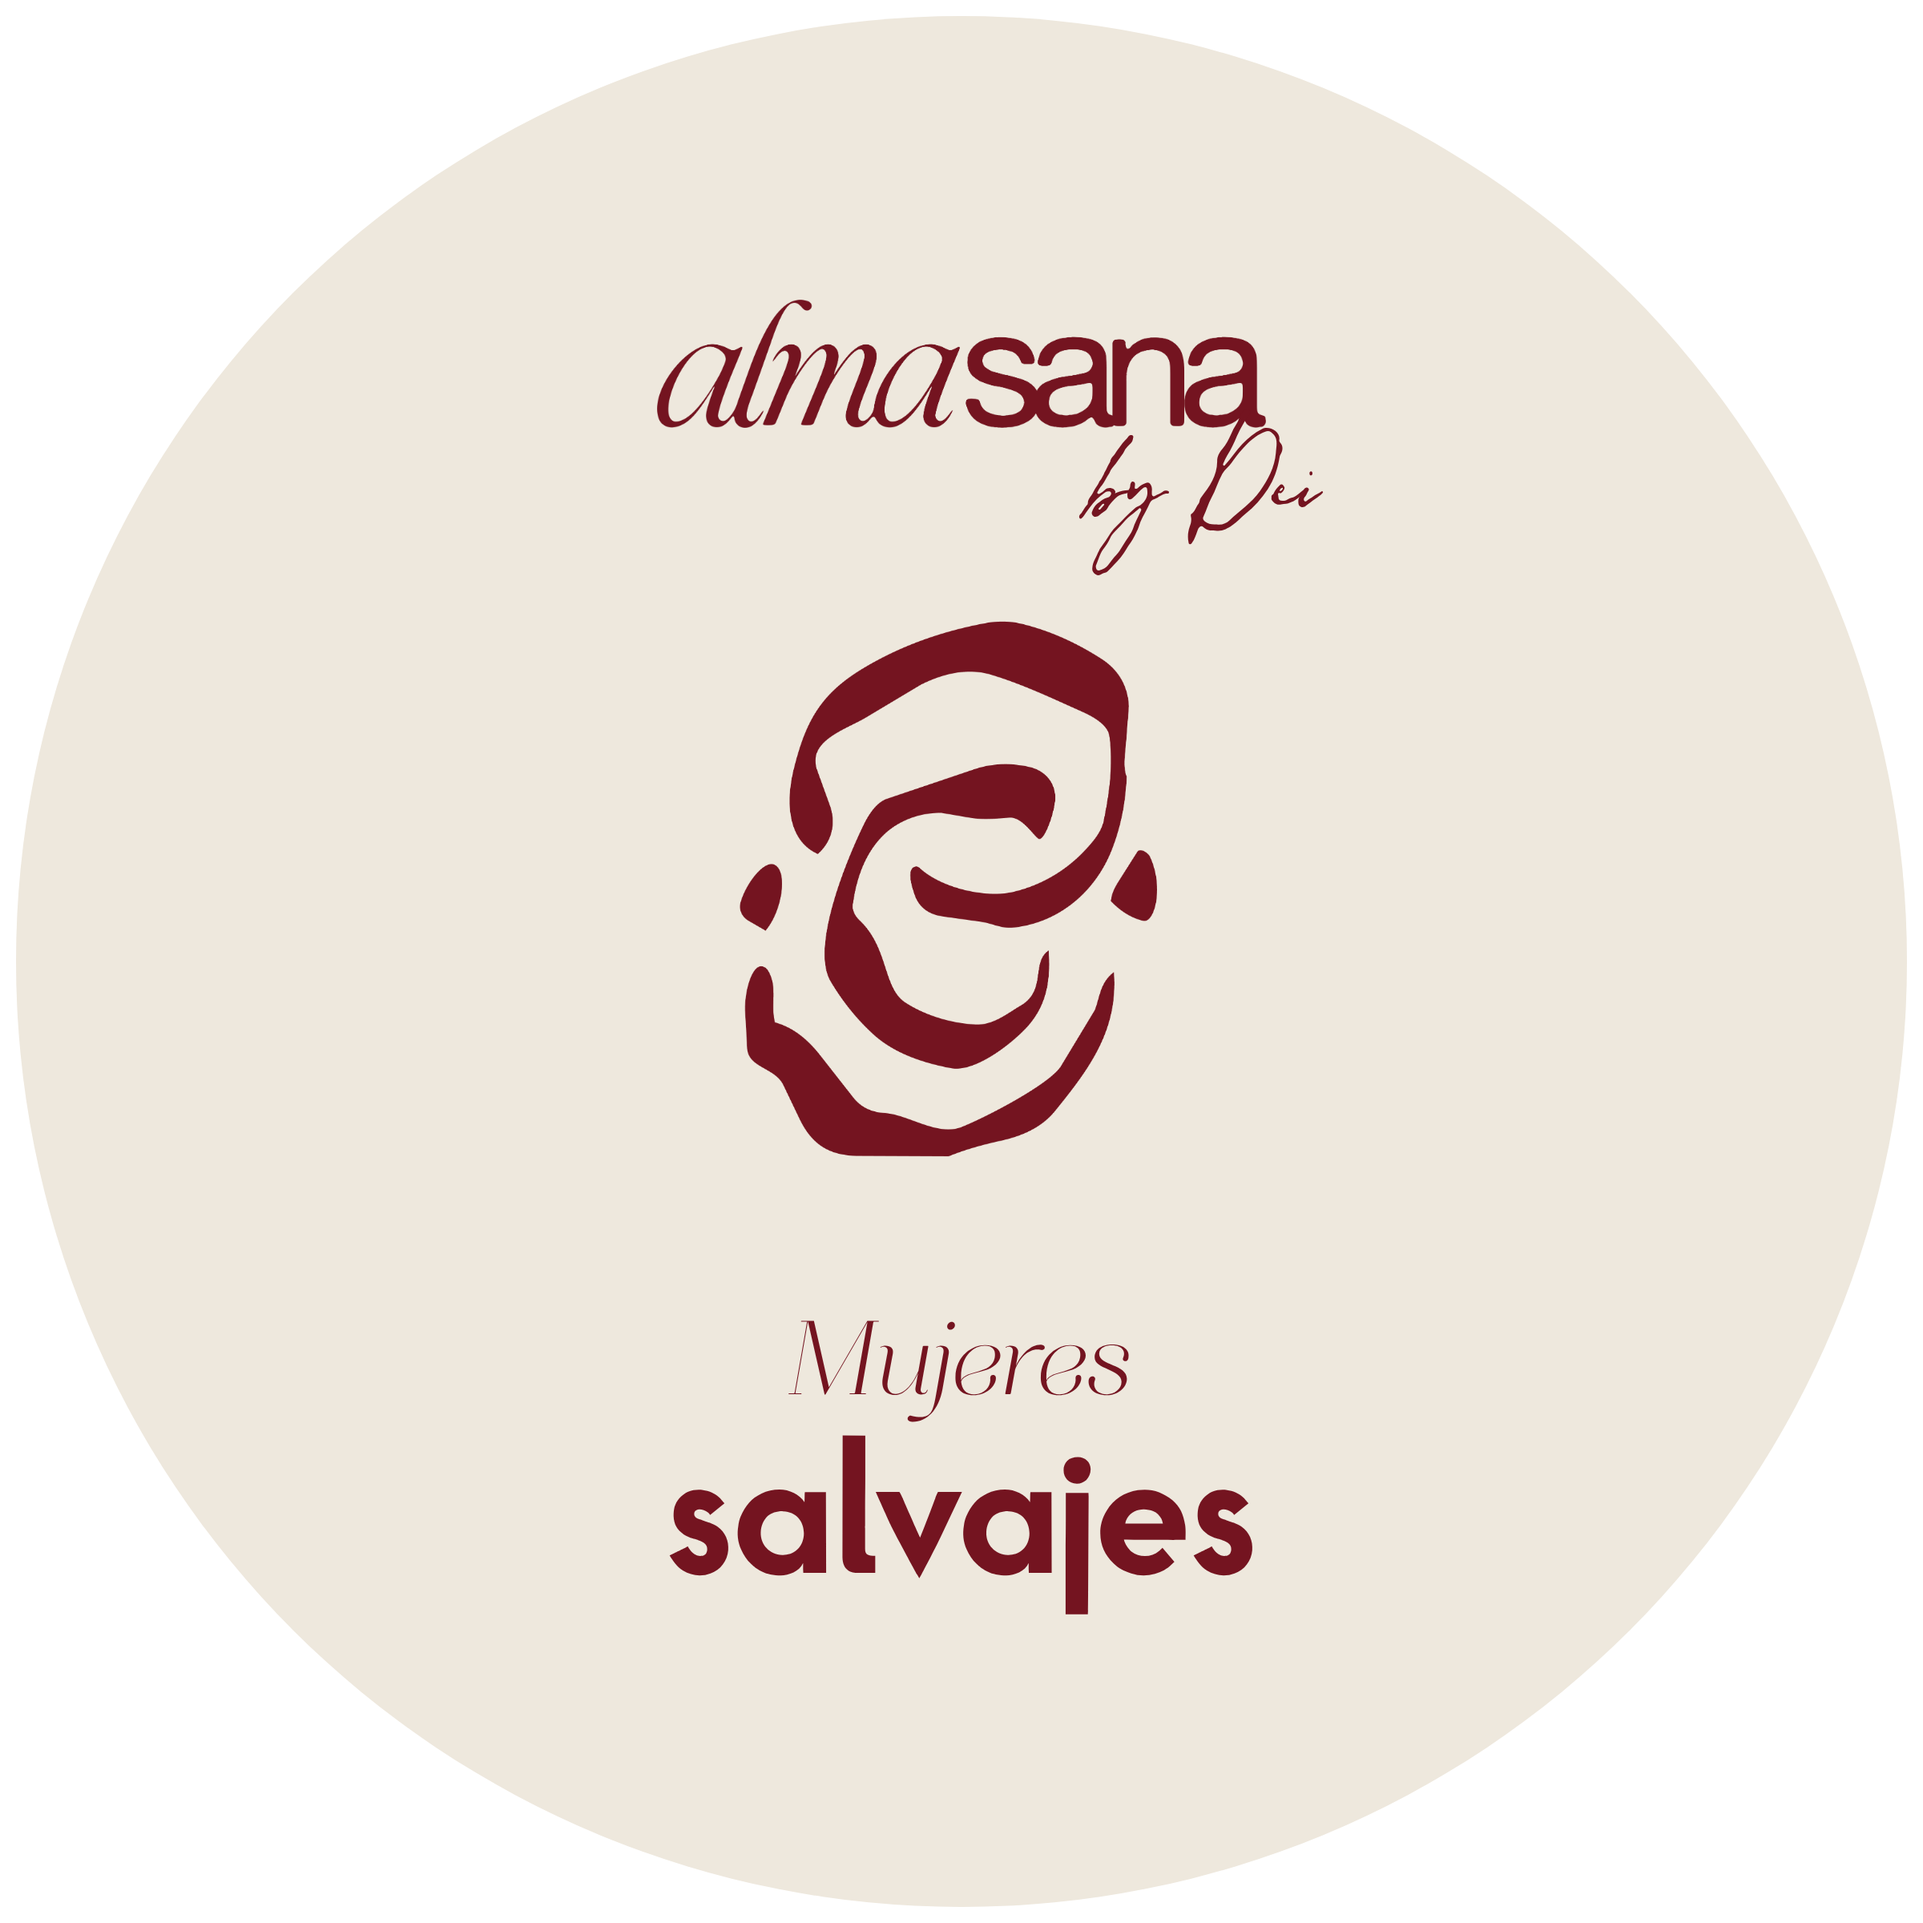
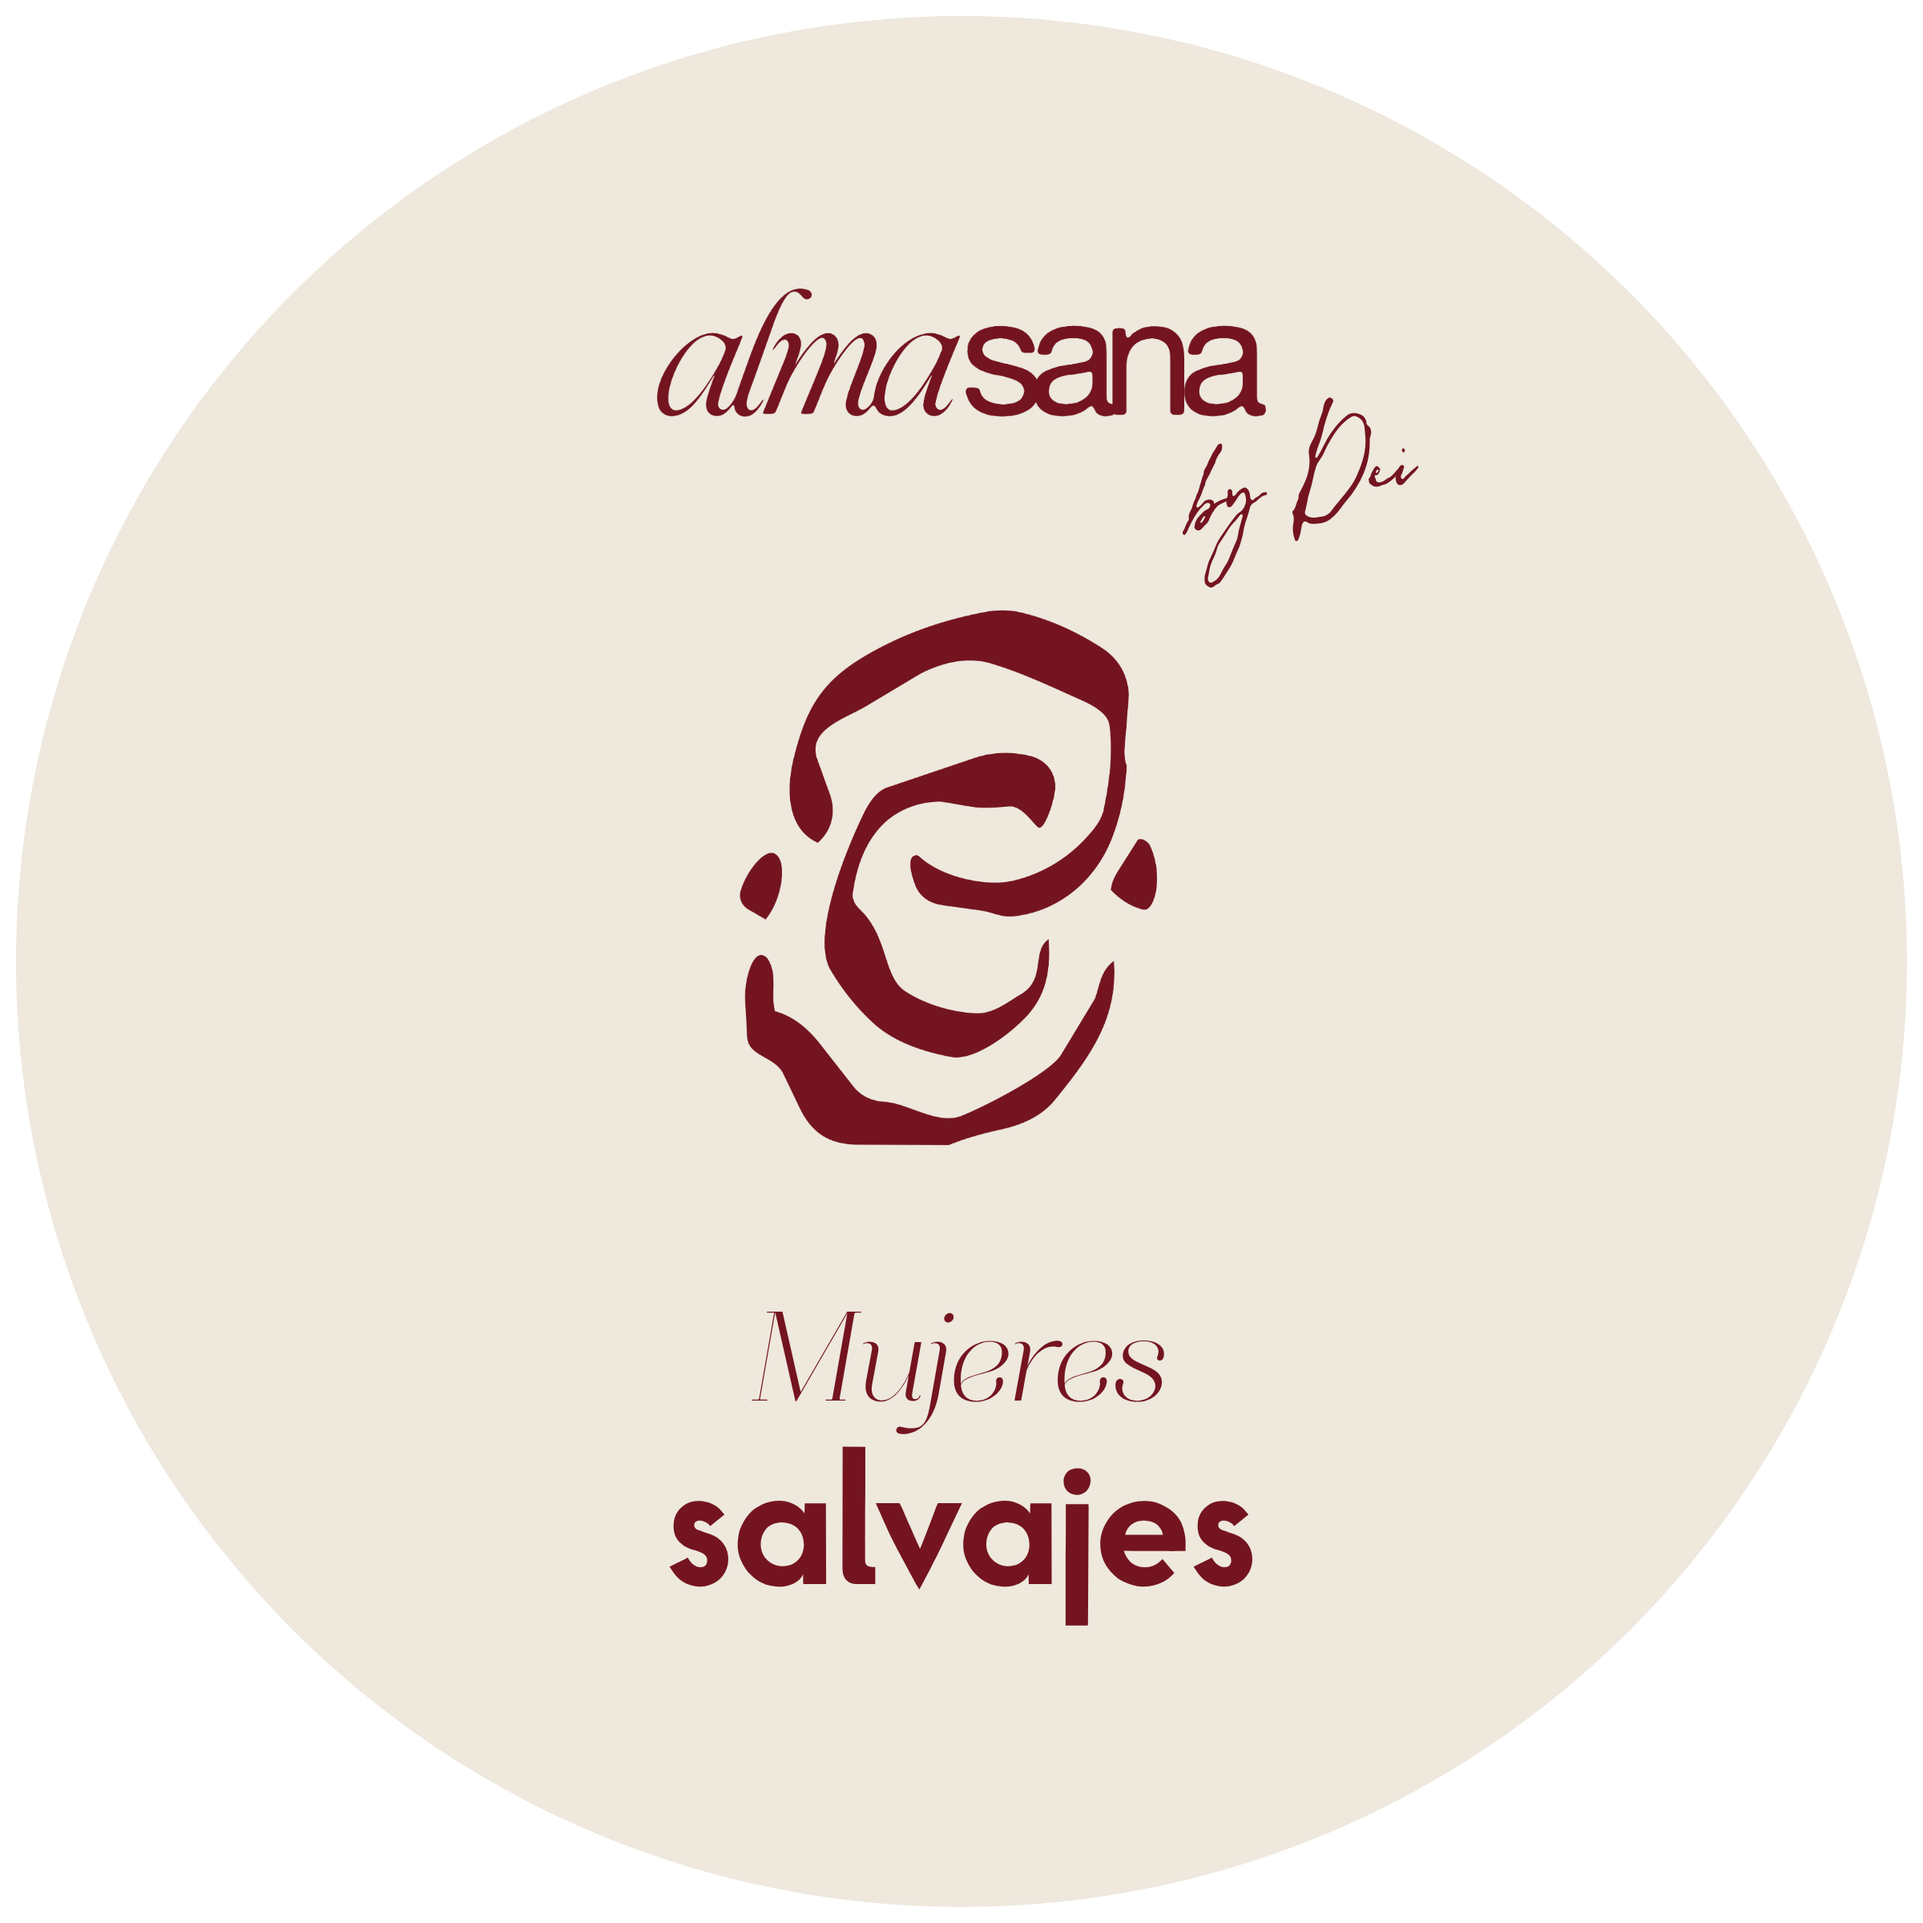
Sticker: angle 'by Dei' upward, enlarge 'Mujeres'
Claude-Session: https://claude.ai/code/session_014KKHDmVPJSKEnC1rY1uwgD

Changed region(s): [[0.375, 0.3125, 0.5938, 0.625], [0.3438, 0.6875, 0.6562, 0.8438], [0.3438, 0.1562, 0.7188, 0.3125]]

diff --git a/sticker/sticker.html b/sticker/sticker.html
@@ -8,9 +8,9 @@ html,body{background:transparent}
 body{width:1200px;height:1200px;display:flex;align-items:center;justify-content:center}
 .c{width:1180px;height:1180px;border-radius:50%;background:#eee8dd;display:flex;flex-direction:column;align-items:center;justify-content:center;color:#741420;text-align:center}
 .lw{position:relative;width:380px}.logo{width:380px;display:block}
-.by{position:absolute;right:-34px;top:100%;margin-top:18px;font-family:"Emilia";font-size:42px;line-height:1;white-space:nowrap}
+.by{position:absolute;right:-96px;top:100%;margin-top:34px;font-family:"Emilia";font-size:42px;line-height:1;white-space:nowrap;transform:rotate(-10deg);transform-origin:left center}
 .sym{height:380px;margin-top:104px}
-.t{line-height:1;margin-top:70px}.t .m{display:block;font-family:"Aire";font-size:66px}.t .s{display:block;font-family:"PenGram";font-weight:700;font-size:124px;margin-top:2px}
+.t{line-height:1;margin-top:70px}.t .m{display:block;font-family:"Aire";font-size:80px}.t .s{display:block;font-family:"PenGram";font-weight:700;font-size:124px;margin-top:2px}
 </style></head><body><div class="c">
 <div class="lw"><img class="logo" src="../brand/logos/logo-vino-horizontal.png"><div class="by">by Dei</div></div>
 <img class="sym" src="../brand/logos/simbolo-vino.png">
